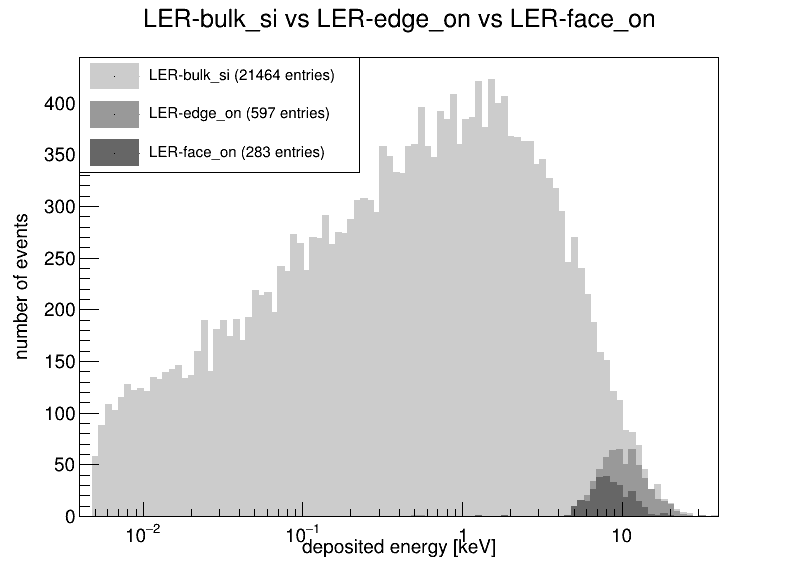
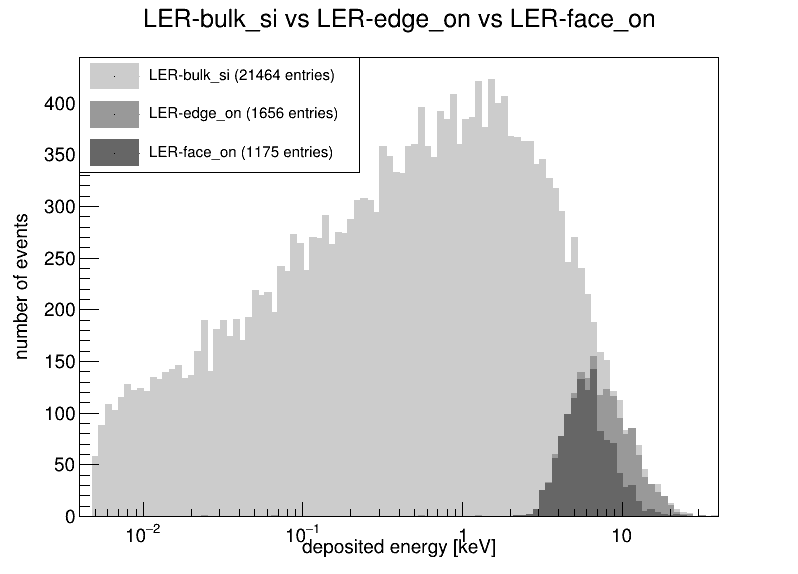
bugfix; had wrong Be window thicknesses (by factor of 10)

Changed region(s): [[0.6617, 0.622, 0.8421, 0.9181], [0.3008, 0.2369, 0.4211, 0.2962], [0.3008, 0.1777, 0.4211, 0.2073]]

diff --git a/src/B1DetectorConstruction.cc b/src/B1DetectorConstruction.cc
@@ -72,16 +72,13 @@ G4VPhysicalVolume* B1DetectorConstruction::Construct() {
 	// SuperKEKB XRM:
 	G4double vacuum_dimension = 10.*cm;
 //	G4double Be_upstream_filter_dimension = 2.*mm; // since phase2 2.0 mm for HER; 0.5 mm for LER
-	G4double Be_window_dimension_1 = 2.*mm; // HER=8741/534/216 LER=21464/597/283
-	//G4double Be_window_dimension_1 = 1.*mm; // HER=8741/618/267 LER=21464/722/377
-	G4double Be_window_dimension_2 = 2.*mm; // HER=8741/534/216 LER=21464/597/283
-	//G4double Be_window_dimension_2 = 1.*mm; // HER=8741/613/282 LER=21464/712/372
-	// both Be windows dimensions = 1mm leads to HER=8741/767/378 LER=21464/921/533
-	G4double air_gap_dimension = 10.*cm; // HER=8741/534/216 LER=21464/597/283
-	//G4double air_gap_dimension = 1.*cm; // HER=8741/575/251 LER=21464/658/323
-	//G4double wall_thickness_of_box = 3.*mm;
+//	G4double diamond_substrate_thickness = 800.*um; // since phase2
+//	G4double gold_mask_thickness = 20.*um;
+	G4double Be_window_dimension_1 = 0.2*mm; // nominal; HER=8741/1144/722 LER=21464/1656/1175
+	G4double Be_window_dimension_2 = 0.2*mm; // nominal; HER=8741/1144/722 LER=21464/1656/1175
+	G4double air_gap_dimension = 10.*cm; // nominal; HER=8741/1144/722 LER=21464/1656/1175
+	//G4double air_gap_dimension = 1.*cm; // HER=8741/1535/1083 LER=21464/2295/1784
 //	G4double neck_dimension_of_box = 50.*mm + 108.*mm;
-	// Envelope parameters
 	G4double position_of_vacuum = 0. - vacuum_dimension/2. - Be_window_dimension_1 - air_gap_dimension - Be_window_dimension_2;
 	G4double env_diameter = 8.5*mm;
 	#ifdef REAL_XRM_SITUATION
@@ -89,10 +86,10 @@ G4VPhysicalVolume* B1DetectorConstruction::Construct() {
 	G4double position_of_Be_window_1 = 0. - Be_window_dimension_1/2. - air_gap_dimension - Be_window_dimension_2;
 	G4double position_of_Be_window_2 = 0. - Be_window_dimension_2/2.;
 	G4double position_of_He_envelope = inside_dimension_of_box/2.;
-	G4double position_of_first_part_of_sensor = - inside_dimension_of_box/2. + 500.*mm;
+	G4double position_of_first_part_of_sensor = - inside_dimension_of_box/2. + 500.*mm; // nominal
+	//G4double position_of_first_part_of_sensor = - inside_dimension_of_box/2. + 50.*mm; // in He, this doesn't seem to make a difference
 	G4double env_sizeZ = inside_dimension_of_box;
 	#endif
-	//G4double position_of_first_part_of_sensor = - inside_dimension_of_box/2. + 50.*mm; // in He, this doesn't seem to make a difference
 //	G4cout << "position_of_vacuum " << position_of_vacuum << G4endl;
 //	G4cout << "position_of_Be_window_1 " << position_of_Be_window_1 << G4endl;
 //	G4cout << "position_of_He_envelope " << position_of_He_envelope << G4endl;
@@ -178,8 +175,8 @@ G4VPhysicalVolume* B1DetectorConstruction::Construct() {
 		                  0,                       //copy number
 		                  checkOverlaps);          //overlaps checking
 		// Envelope
-		G4Material* env_mat = nist->FindOrBuildMaterial("G4_He"); // HER=8741/534/216 LER=21464/597/283
-		//G4Material* env_mat = nist->FindOrBuildMaterial("G4_AIR"); // HER=8741/353/104 LER=21464/400/142
+		G4Material* env_mat = nist->FindOrBuildMaterial("G4_He"); // nominal; HER=8741/1144/722 LER=21464/1656/1175
+		//G4Material* env_mat = nist->FindOrBuildMaterial("G4_AIR"); // HER=8741/606/254 LER=21464/662/350
 		G4Tubs *solidEnv = new G4Tubs("Envelope", 0., env_diameter/2., 0.5*env_sizeZ, 0., 2.*M_PI);
 		G4LogicalVolume *logicEnv = new G4LogicalVolume(solidEnv,            //its solid
 		                      env_mat,             //its material

diff --git a/README.md b/README.md
@@ -70,12 +70,12 @@ mza@ubuntu18-04:~/build/XRM$ ./go.sh
 [ 66%] Built target face_on
 [100%] Built target edge_on
 read 8741 lines from file HER-bulk_si
-read 534 lines from file HER-edge_on
-read 216 lines from file HER-face_on
+read 1144 lines from file HER-edge_on
+read 722 lines from file HER-face_on
 generated XRM.HER.png
 read 21464 lines from file LER-bulk_si
-read 597 lines from file LER-edge_on
-read 283 lines from file LER-face_on
+read 1656 lines from file LER-edge_on
+read 1175 lines from file LER-face_on
 generated XRM.LER.png
 ```
 
